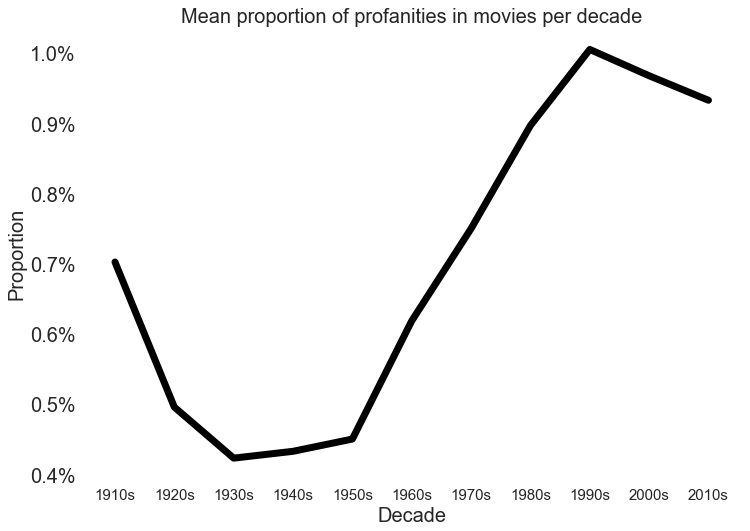
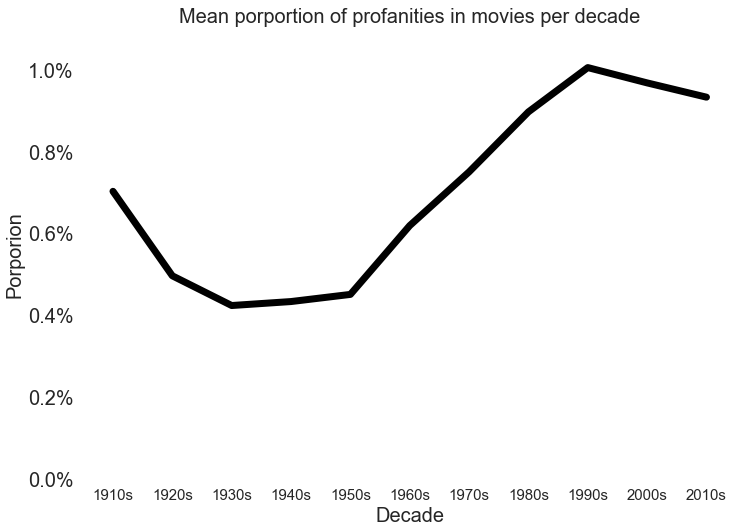
corrected typos

diff --git a/docs/index.md b/docs/index.md
@@ -17,24 +17,24 @@ Before starting the analysis, it is important to give some main facts about our 
 
 As you can see on the left plot above, we mostly have new films in our dataset. Every time we do an analysis of some film property by decade, you must know that the conclusions will be more grounded for the last two-three decades than anything before that. There were simply less films produced back then.
 
-On the right plot above is shown a distribution of genres. For some genres, such as drama, comedy or action we have a lot of data. But for some more specific genres such as musical or Western we don't have so many films, so when we do analysis by genre you must know that conclusions for those genres might be biased (due to small sample size). 
+The right plot above shows a distribution of genres in our dataset. For some genres, such as drama, comedy or action we have a lot of data. But for some more specific genres such as musical or Western we don't have that many films, so when we do analysis by genre you should be aware that conclusions for those genres might be biased (due to small sample size). 
 
 ![desc_stat_2](./assets/plot2.png)
 
-On the plots above we can see some statistics about IMDB ratings of our movies. It seems that the old movies were rated a bit better than the new ones, and the trend seems to go toward lower ratings.
-While it's possible that a higher proportion of new films is of low quality, it could also be a bias in our dataset: nobody uploads subtitles for low quality old movies on OpenSubtitles website. 
+On the plots above we can see some statistics about IMDB ratings of our movies. It seems that old movies were rated a bit better than new ones, and the trend seems to go toward lower ratings.
+While it's possible that a higher proportion of new films are of lower quality, it could also be a bias in our dataset: nobody uploads subtitles for old movies of low quality on the OpenSubtitles website. 
 
-As can be seen on the right plot, IMDB ratings are approximately normally distributed with mean of 6.5. Getting a film to score over 9 might be harder than winning an Oscar!
+As can be seen on the right plot, IMDB ratings are approximately normally distributed with a mean of 6.5. Getting a film to score over 9 might be harder than winning an Oscar!
 
 ### The Lowest Common Denominator
 
-Films are generally expensive to make, and are made primarly for profit. But how can your movie sell well if most people don't understand it? Your film might be a stroke of genius, but general audience might be more interested in toilet humor than your intelectual rambling. Many cinemaphiles claim this is reason why most movies are "dumbed-down", and this phenomenon is generally known as the [lowest common denominator](https://tvtropes.org/pmwiki/pmwiki.php/Main/LowestCommonDenominator). 
+Films are generally expensive to make, and are primarily made for profit. But how can your movie sell if most people don't understand it? Your film might be a stroke of genius, but general audience might be more interested in toilet humor than your intellectual rambling. Many cinemaphiles claim this is the reason why most movies are "dumbed-down", and this phenomenon is generally known as the [lowest common denominator](https://tvtropes.org/pmwiki/pmwiki.php/Main/LowestCommonDenominator). 
 
-Quantifying complexity of a film is a difficult task. What does it mean for a film to be complex? Longer sentences? More "smart" words? We decided to use an already existing metric to quantify complexity of our films. The [Dale-Chall readability formula](https://en.wikipedia.org/wiki/Dale%E2%80%93Chall_readability_formula) measures how readable a text is. Larger score means the text is less readable. Considering that readability in Dale-Chall formula is calculated by measuring the number of difficult words and the length of the sentences, __we will assume that readability is a good proxy for complexity__. In other words, less readable text should be more complex.
+Quantifying complexity of a film is a difficult task. What does it mean for a film to be complex? Longer sentences? More "smart" words? We decided to use an already existing metric to quantify complexity of our films. The [Dale-Chall readability formula](https://en.wikipedia.org/wiki/Dale%E2%80%93Chall_readability_formula) measures how readable a text is. Larger score means that the text is less readable. Considering that readability in Dale-Chall formula is calculated by measuring the number of difficult words and the length of the sentences, __we will assume that readability is a good proxy for complexity__. In other words, less readable text should be more complex.
 
 ![read_1](./assets/read1.png)
 
-Looking at the plot above, it seems that readability is pretty much constant in time. All decades score between 6 and 7, which  means that the typical film can be "easily understood by an average 7th or 8th-grade student" (according to the table attached to the Dale-Chall formula). 
+Looking at the plot above, it seems that readability is pretty much constant in time. All decades score between 6 and 7, which  means that the typical film can be "easily understood by an average 7th or 8th-grade student" (according to the interpretation table attached to the Dale-Chall formula). 
 
 ![read_2](./assets/read2.png)
 
@@ -45,43 +45,43 @@ However, we cannot make a definite conclusion that films have almost constant co
 
 ### The F-bombs
 
-Scorsese's _The Wolf of Wall Street_ broke the all-time record for number of f-words in a movie: the word was used a whooping 506 times. That is more than 9 f-words used every minute! However, this is just one example. Are newer films in general containing more and more offensive language? Using our movie data and [this](https://github.com/zacanger/profane-words/blob/master/words.json) list of profanities, we will answer that question.
+Scorsese's _The Wolf of Wall Street_ broke the all-time record for number of f-words in a movie: the word was used a whooping 506 times. That is more than 9 f-words used every minute! However, this is just one example. Are newer films in general containing more and more offensive language? Using our movie data and [this](https://github.com/zacanger/profane-words/blob/master/words.json) list of profanities, we will answer this question.
 
 ![prof_1](./assets/prof1.png)
 
-We can observe several interesting things on the above plot. From early 30s until the late 50s Hollywood movies were highly censored under the set of moral guidelines called [the Hays code](https://en.wikipedia.org/wiki/Motion_Picture_Production_Code). The uncensored era before the code is known as [pre-code Hollywood](https://en.wikipedia.org/wiki/Pre-Code_Hollywood) era. We can spot both the pre-code era and the Hays code era on the plot: the proportion of profanities is high in 1910s and 20s, but decreases in 30s and only starts to increase in the 60s. 
+We can observe several interesting things in the above plot. From early 30s until the late 50s Hollywood movies were highly censored under the set of moral guidelines called [the Hays code](https://en.wikipedia.org/wiki/Motion_Picture_Production_Code). The uncensored era before the code is known as [pre-code Hollywood](https://en.wikipedia.org/wiki/Pre-Code_Hollywood) era. We can spot both the pre-code era and the Hays code era on the plot: the proportion of profanities is high in the 1910s and 20s, but decreases in the 30s and only starts to increase in the 60s. 
 
-Another thing we can see is that the proportion of profanities in an average new movie has more than doubled from mid-20th century. The 90s were a particularly profane decade: 1 out of every 100 words in a movie was a swear word. We now know that newer movies are full of profanities, but which genres lead the way?
+Another thing we can see is that the proportion of profanities in an average new movie has more than doubled from the mid-20th century. The 90s were a particularly profane decade: 1 out of every 100 words in a movie was a swear word. We now know that newer movies are full of profanities, but which genres lead the way?
 
 ![prof_2](./assets/prof2.png)
 
-As expected, crime, adult, horror and action movies have the highest proportion of profanities. On the other hand, game-shows and family movies are more mild. One would imagine the imbalance in genres would be even bigger: it's hard to imagine a family movie has any profanities. This is probably due to many false positives in our list of profanities: a lot of them are ethnic and racial designations that are only offensive in a certain context ('whites' and 'blacks' can refer to laundry, for example). 
+As expected, crime, adult, horror and action movies have the highest proportion of profanities. On the other hand, game-shows and family movies are more mild. One would imagine the imbalance in genres would be even bigger: it's hard to imagine that a family movie has any profanities at all. This is probably due to many false positives in our list of profanities: a lot of them are ethnic and racial designations that are only offensive in a certain context ('whites' and 'blacks' can refer to laundry, for example). 
 
 ### And They Lived Happily Ever After
 
-Earth was saved from the alien threat, the cavlary has arrived, the hero got the girl, and the couple finally got together after they realized all of their differences were just misunderstandings. Films in general often have a positive tone and a happy ending; after all, people have enough sadness in their real life. But too much happy endings and they can become annoying, and some even say [unhealthy](https://www.gamesradar.com/happy-endings-to-movies-are-secretly-unhealthy-but-we-keep-falling-for-them-hook-line-and-sinker/). We will check out if it is truly a fact that we have more happy movies today, and also find out which genres to avoid if you desire some realism.
+Earth was saved from the alien threat, the cavalry has arrived, the hero got the girl, and the couple finally got together after they realized all of their differences were just misunderstandings. Films in general often have a positive tone and a happy ending; after all, people have enough sadness in their real life. But too many happy endings and they can become annoying, and some even say [unhealthy](https://www.gamesradar.com/happy-endings-to-movies-are-secretly-unhealthy-but-we-keep-falling-for-them-hook-line-and-sinker/). We will check if it is truly a fact that we have more happy movies today, and also find out which genres to avoid if you desire some realism.
 
-Measuring sentiment of a film is not an easy task. We used [TextBlob](https://textblob.readthedocs.io/en/dev/index.html) and their implementation of sentiment analysis to calculate polarity scores for each of our movies. Positive score implies positive sentiment, while negative score implies negative.
+Measuring the sentiment of a film is not an easy task. We used [TextBlob](https://textblob.readthedocs.io/en/dev/index.html) and their implementation of sentiment analysis to calculate polarity scores for each of our movies. Positive score implies positive sentiment, while negative score implies negative.
 
 ![sent_1](./assets/sent1.png)
 
-Except some slight variations in early 20th century (which can be explained by small sample sizes for those decades), the sentiment of films seems to be quite constant. Interesting thing to notice is that sentiment is generally positive - movies are not getting more positive, they were positive from beginning.
+Except some slight variations in early 20th century (which can be explained by small sample sizes for those decades) the sentiment of films seems to be quite constant. An interesting thing to notice is that the sentiment is generally positive - movies are not getting more positive, they were positive from the beginning.
 
 ![sent_2](./assets/sent2.png)
 
-Unsurprisingly, game-shows and reality-TV is has positive sentiment and horror, crime and thriller have negative. It is interesting to notice that documentaries and news-shows have one of the most positive sentiments - and they are mostly talking about the real world. Either they are focusing of happy stories or our world is not so bad as it sometimes seems.
+Unsurprisingly, game-shows and reality-TV are in general positive and horror, crime and thriller are negative. It is interesting to notice that documentaries and news-shows have one of the most positive sentiments - and they are mostly talking about the real world. Either they are focusing on happy stories or our world is not so bad as it sometimes seems.
 
 ### How to Make a Blockbuster
 
-You now know that films are pretty readable, that swear words will soon become more common than non-swear words, and that horrors are not so happy. But what is the worth of knowledge if you can't use it to make some money? In this section, we will look at the three film properties we already analyzed (complexity, proportion of offensive words, sentiment) and try to find correlation between them and movie ratings. 
+You now know that films are pretty readable, that swear words will soon become more common than non-swear words, and that horrors are not so happy. But what is the worth of knowledge if you can't use it to make some money? In this section, we will look at the three film properties that we have already analyzed (complexity, proportion of offensive words, sentiment) and try to find correlation between them and movie ratings. 
 
 ![reg_read](./assets/reg_read.png)
 
-There seems to be __no correlation__ between the readability (as defined by Dale-Chall formula) and IMDB ratings. The regression line is slightly positive, but this is due to a few outliers with high readability and ratings. One can say that making movies more or less readable is probably not going to affect the quality.
+There seems to be __no correlation__ between the readability (as defined by the Dale-Chall formula) and IMDB ratings. The regression line is slightly positive, but this is due to a few outliers with high readability and ratings. One can say that making movies more or less readable is probably not going to affect the public perception.
 
 ![reg_prof](./assets/reg_prof.png)
 
-Even though the regression line is negative, __there doesn't seem to be much of a correlation here__. The great majority of our films are situated in the blob on the left and it doesn't seems that there is any dependency between profanities and rating in that blob. Good movies can have lot of swear words, bad movies can have lot of swear words, and the opposite. 
+Even though the regression line is negative, __there doesn't seem to be much of a correlation here__. The great majority of our films are situated in the blob on the left and it doesn't seem that there is any dependency between profanities and rating in that blob. Good movies can have a lot of swear words, bad movies can have a lot of swear words, and the opposite. 
 
 ![reg_sent](./assets/reg_sent.png)
 
